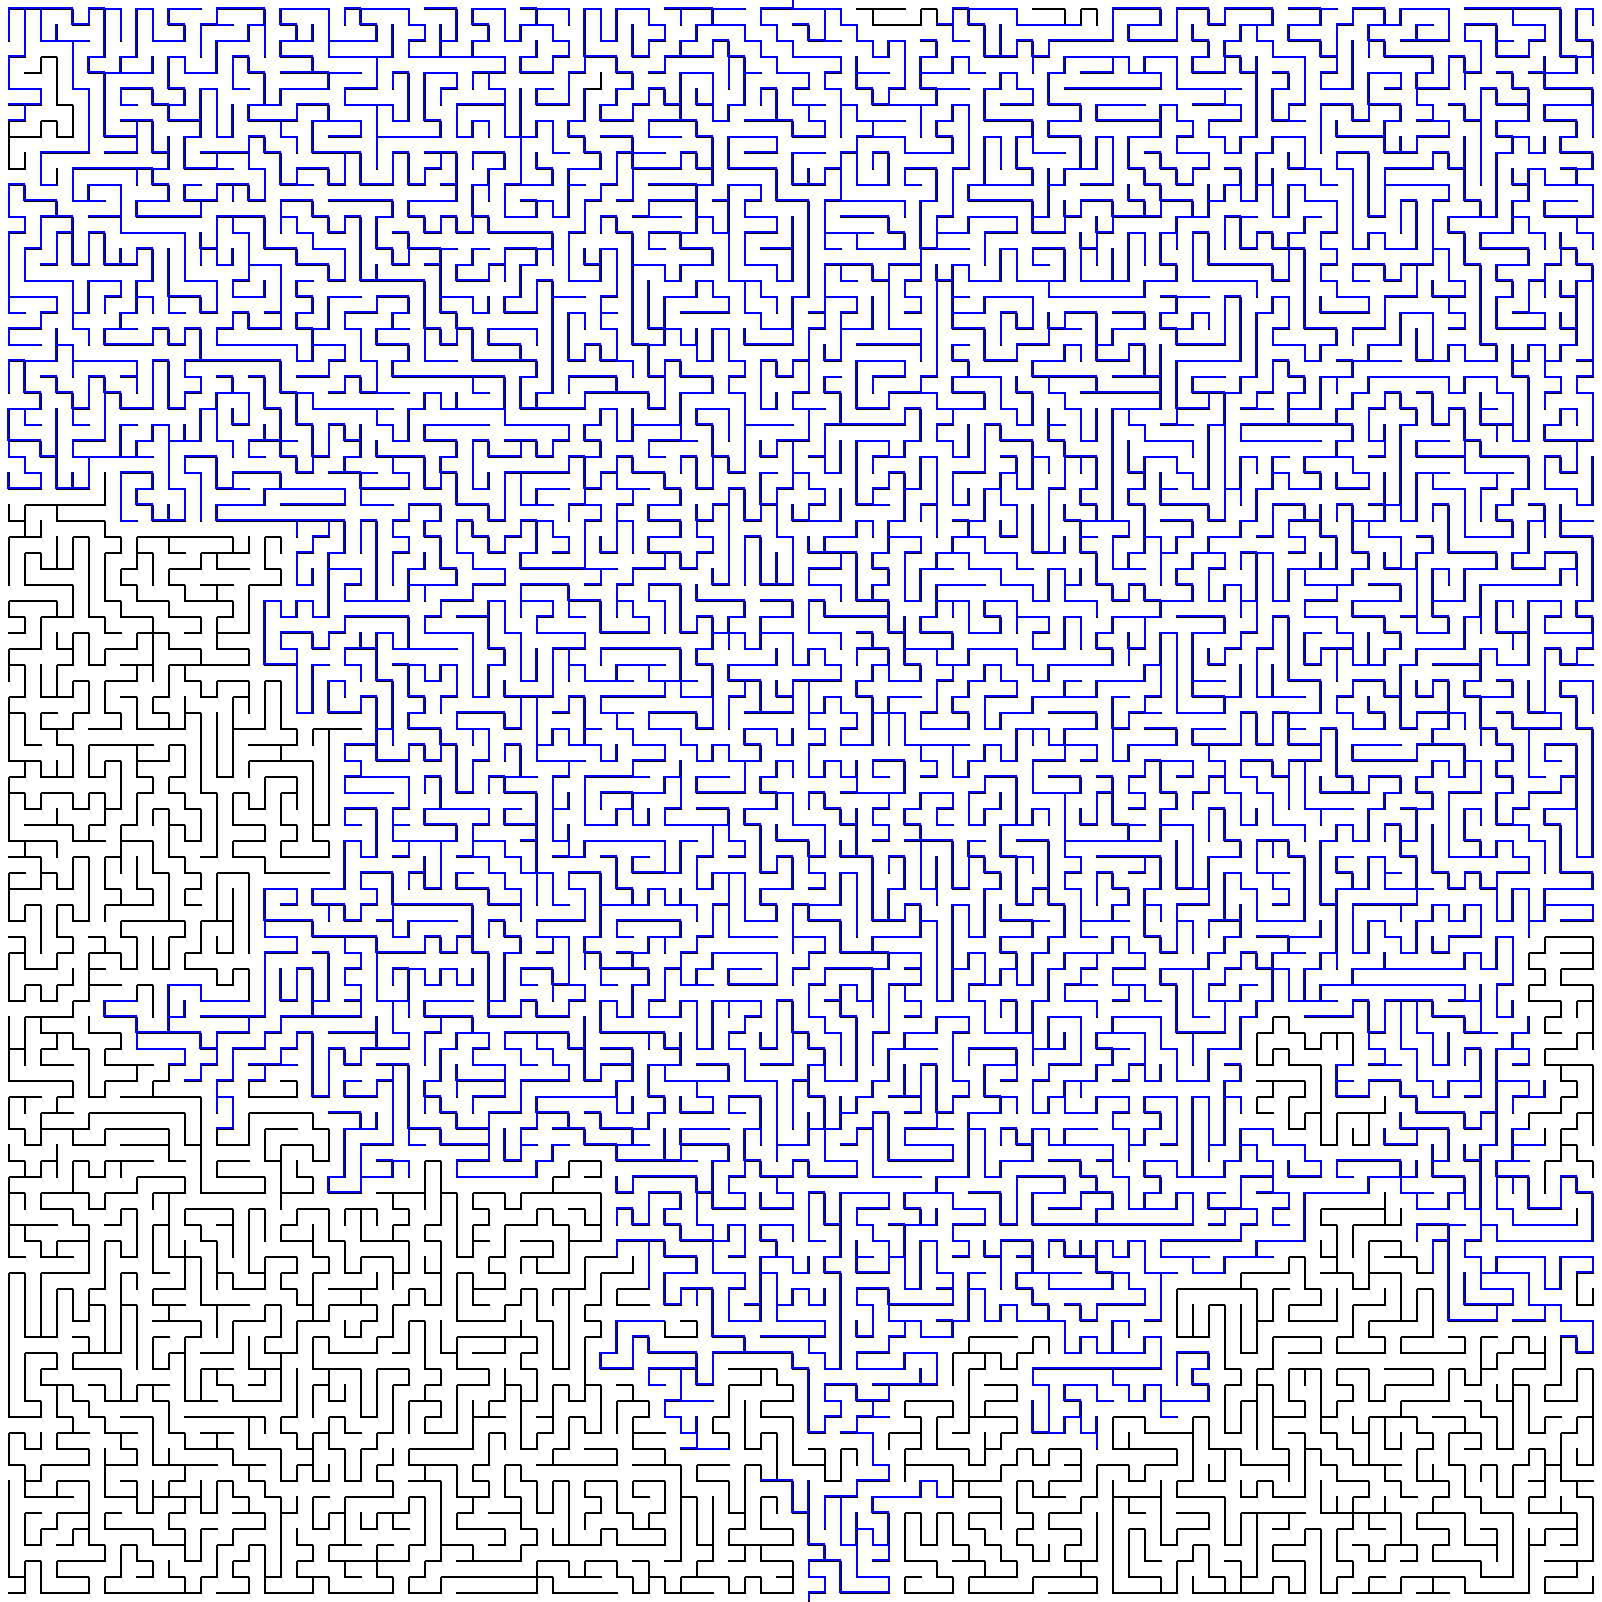
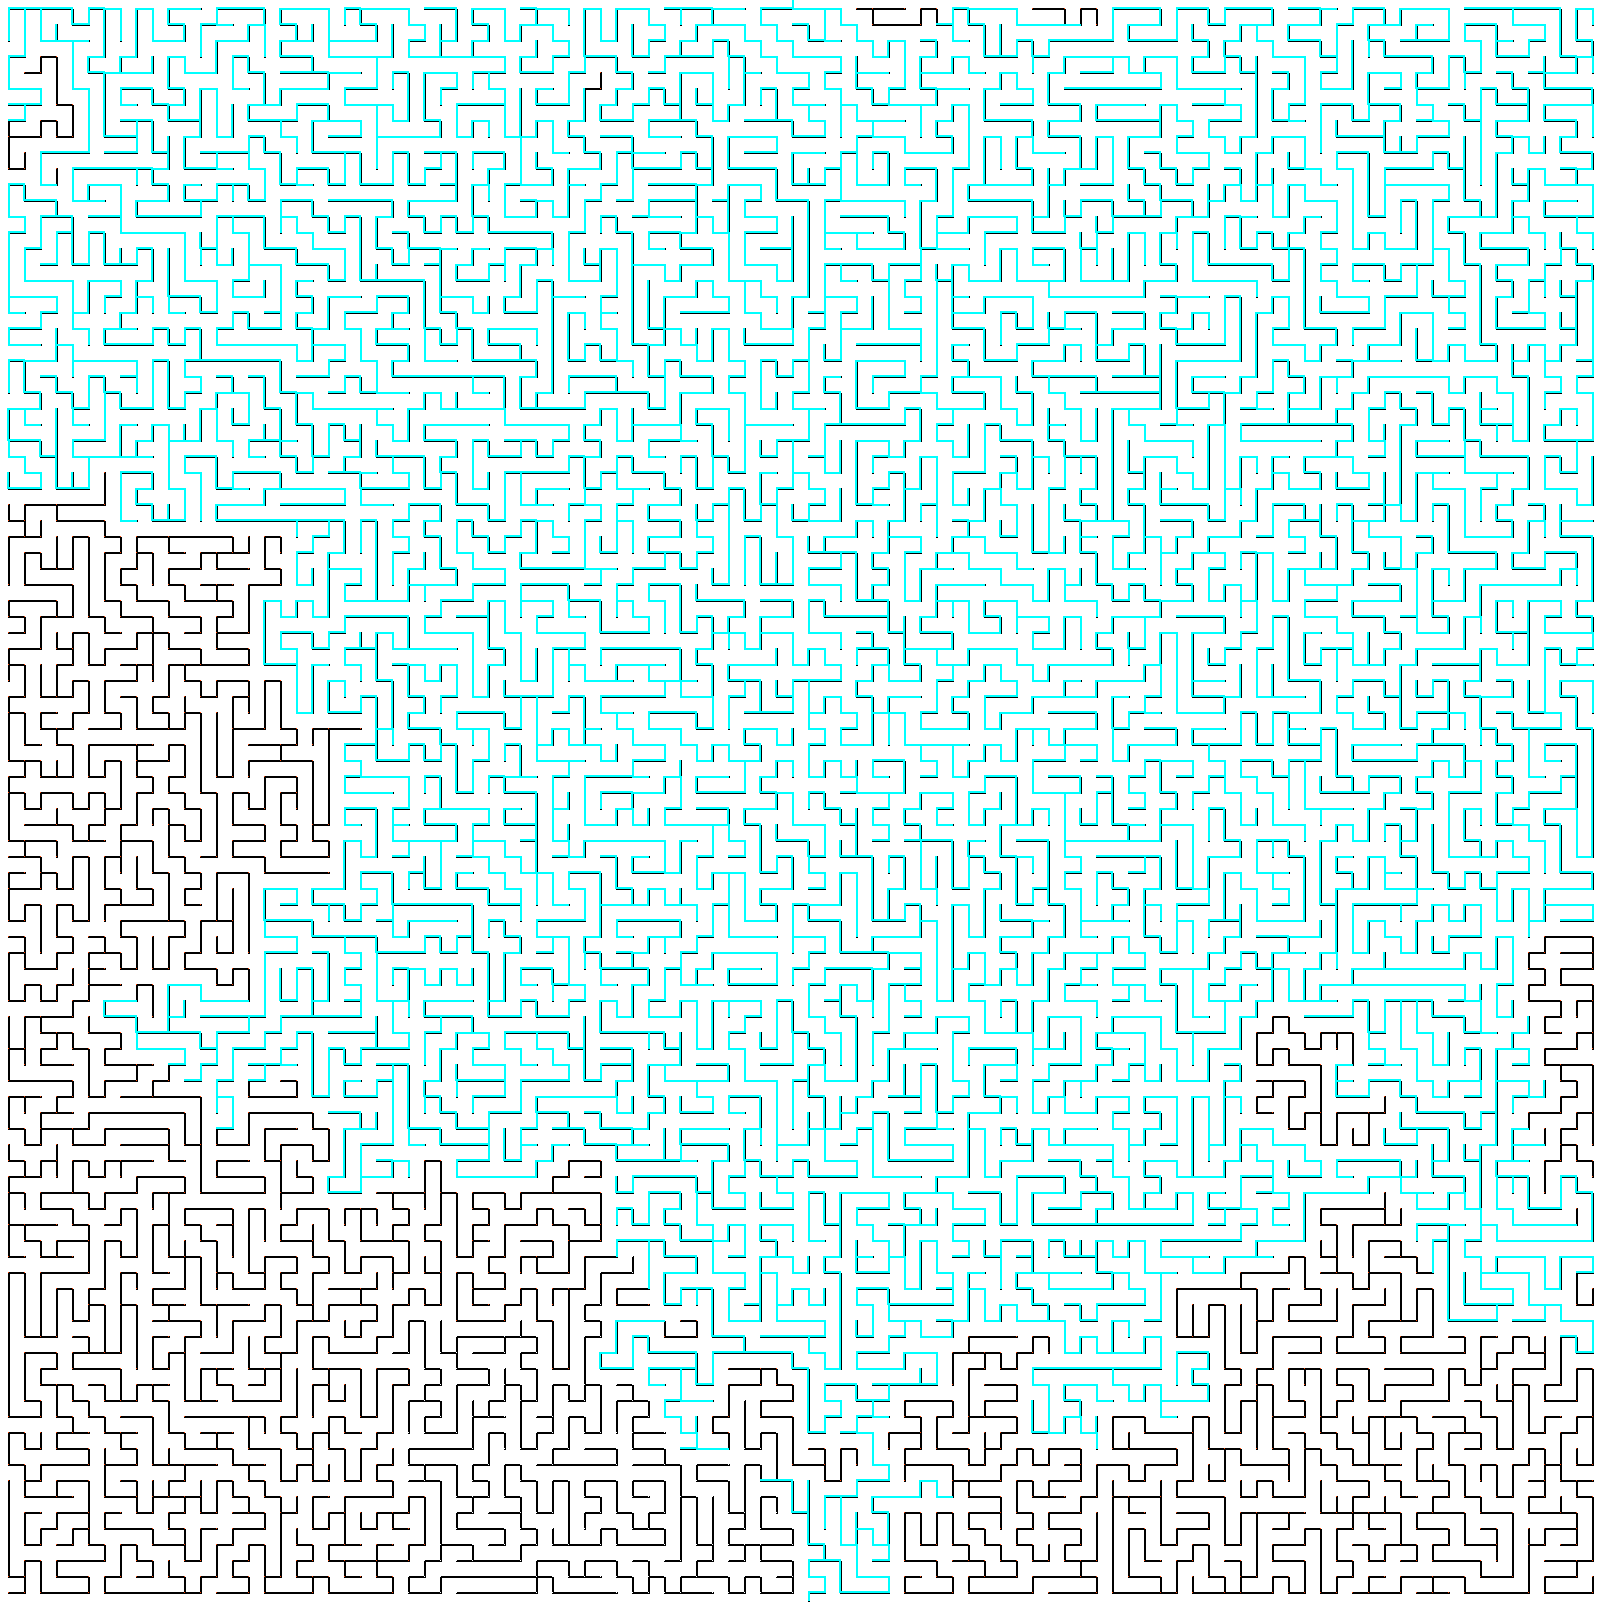
Commit Final

Changed region(s): [[0.0, 0.0, 0.9988, 0.9051], [0.4994, 0.9051, 0.5618, 0.9988], [0.4057, 0.8427, 0.437, 0.9051]]

diff --git a/base/buscas.py b/base/buscas.py
@@ -63,7 +63,7 @@ class BuscaLargura(Buscas):
 
         # Verifica se tem algum estado pai na minha lista, caso tenha ele entra no while
         while not Q.empty():
-            u = Q.get()
+            u = Q.get_nowait()
 
         # Caso o atual "u" que é minha lista de estados pai, contenha o estado pai objetivo, então sai do while
             if u.goal:
@@ -97,45 +97,100 @@ class BuscaProfundidade(Buscas):
         self.cor = {}
         self.pred = {}
         self.d = {}
-        self.f = {}
         # Nome da busca
-        self.name = "Busca Profundidade"
+        self.name = "Busca Largura"
 
     def search(self, data, estado_pai):
-        # tempo inicial
-        tempo = 0
-
-        # Para cada estado possivel a partir do estado pai, ele armazena estes estados em uma lista e os coloca todos como cor branca
-        for v in fn.list_state(estado_pai, []):
-            # cores possíveis: branco, cinza e preto
-            self.cor[v] = 'branco'
+        for v in fn.list_state(estado_pai, []):             
+            self.d[v] = np.inf
+            self.cor[v] = 'branco'  # branco cinza e preto
+            # Marca os estados como none, para saber quais os estados que se deve passar novamente
             self.pred[v] = None
+            self.drawPoint(data, v, self.cor[v])
 
-        for v in fn.list_state(estado_pai, []):
-            # para cada filho na lista, verifica-se se ele é branco
-            if self.cor[v] == 'branco':
-                tempo = self.visit(estado_pai, v, tempo)
+        # Marca o estado pai como cinza
+        self.cor[estado_pai] = 'cinza'
+        self.d[estado_pai] = 0
+        self.drawPoint(data, estado_pai, self.cor[estado_pai])
+
+        Q = LifoQueue()
+        Q.put(estado_pai)
+
+        # Verifica se tem algum estado pai na minha lista, caso tenha ele entra no while
+        while not Q.empty():
+            u = Q.get_nowait()
+
+        # Caso o atual "u" que é minha lista de estados pai, contenha o estado pai objetivo, então sai do while
+            if u.goal:
+                break
+
+        # para cada filho na lista de filhos do pai a ser analisado
+            for v in u.children:
+                # se sua cor for branca, eu troco ela pra cinza
+                if self.cor[v] == 'branco':
+                    self.cor[v] = 'cinza'
+                    self.d[v] = self.d[u] + 1
+                    self.pred[v] = u
+                    self.drawPoint(data, v, self.cor[v])
+
+                    self.visitado.append((u, v))
+
+                    Q.put(v)
+            self.cor[u] = 'preto'
+            self.drawPoint(data, u, self.cor[u])
 
         self.resultado = [key for key in self.cor if self.cor[key] == 'preto']
 
+        # Salva uma imagem com os dados coletados nos passos anteriores e com os estados visitados pintados
+        fn.save_image(data, "Resolucao-Largura.png")
+
+# NÃO UTILIZADO.
+# class BuscaProfundidade(Buscas):
+#     # Variaveis que serão utilizadas durante a busca
+#     def __init__(self):
+#         super().__init__()
+#         self.cor = {}
+#         self.pred = {}
+#         self.d = {}
+#         self.f = {}
+#         # Nome da busca
+#         self.name = "Busca Profundidade"
+
+#     def search(self, data, estado_pai):
+#         # tempo inicial
+#         tempo = 0
+
+#         # Para cada estado possivel a partir do estado pai, ele armazena estes estados em uma lista e os coloca todos como cor branca
+#         for v in fn.list_state(estado_pai, []):
+#             # cores possíveis: branco, cinza e preto
+#             self.cor[v] = 'branco'
+#             self.pred[v] = None
+
+#         for v in fn.list_state(estado_pai, []):
+#             # para cada filho na lista, verifica-se se ele é branco
+#             if self.cor[v] == 'branco':
+#                 tempo = self.visit(estado_pai, v, tempo)
+
+#         self.resultado = [key for key in self.cor if self.cor[key] == 'preto']
 
 
-    def visit(self, G, s, tempo):
-        tempo = tempo + 1
-        self.d[s] = tempo
-        self.cor[s] = 'cinza'
 
-        for v in G.children:
-            if self.cor[v] == 'branco':
-                self.pred[v] = s
-                self.visitado.append((s, v))
-                tempo = self.visit(G, v, tempo)
+#     def visit(self, G, s, tempo):
+#         tempo = tempo + 1
+#         self.d[s] = tempo
+#         self.cor[s] = 'cinza'
 
-        self.cor[s] = 'preto'
-        self.tempo = tempo + 1
-        self.f[s] = tempo
+#         for v in G.children:
+#             if self.cor[v] == 'branco':
+#                 self.pred[v] = s
+#                 self.visitado.append((s, v))
+#                 tempo = self.visit(G, v, tempo)
 
-        return tempo
+#         self.cor[s] = 'preto'
+#         self.tempo = tempo + 1
+#         self.f[s] = tempo
+
+#         return tempo
 
 
 class BuscaCustoUniforme(Buscas):
@@ -187,7 +242,7 @@ class BuscaCustoUniforme(Buscas):
 
             # para cada estado filho
             for node in current_node.children:
-                custo = current_node.arestas[node].custoH
+                custo = current_node.arestas[node].custo
                 filho = current_node.arestas[node].g_fim
 
                 if not filho in self.visitado:

diff --git a/base/funcoes.py b/base/funcoes.py
@@ -69,7 +69,7 @@ def drawLines(data, visitados, filename):
         draw.line(
             (g_ini.column, g_ini.line,
                 g_fim.column, g_fim.line),
-            fill=(0, 0, 255), width=2
+            fill=(0, 255, 255), width=2
         )
 
     # draw.line(lines, fill=255, width=2)
